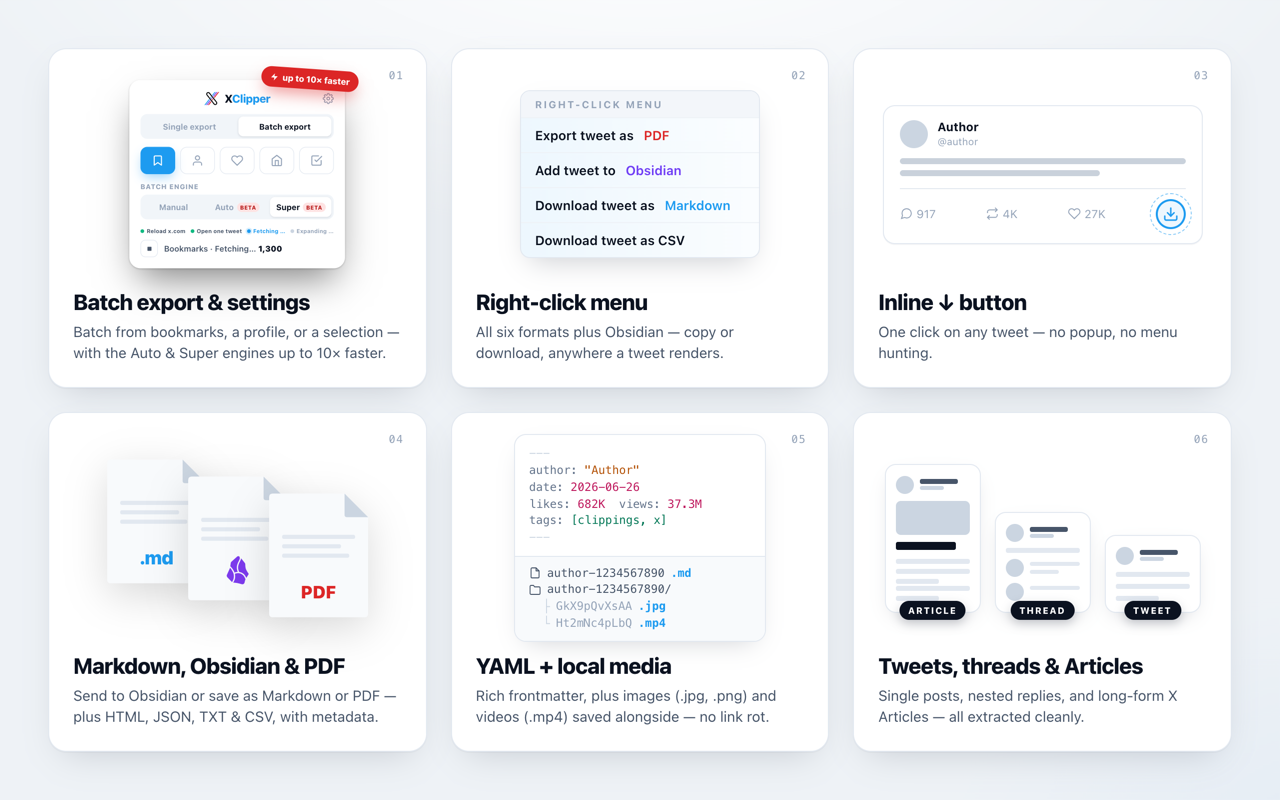
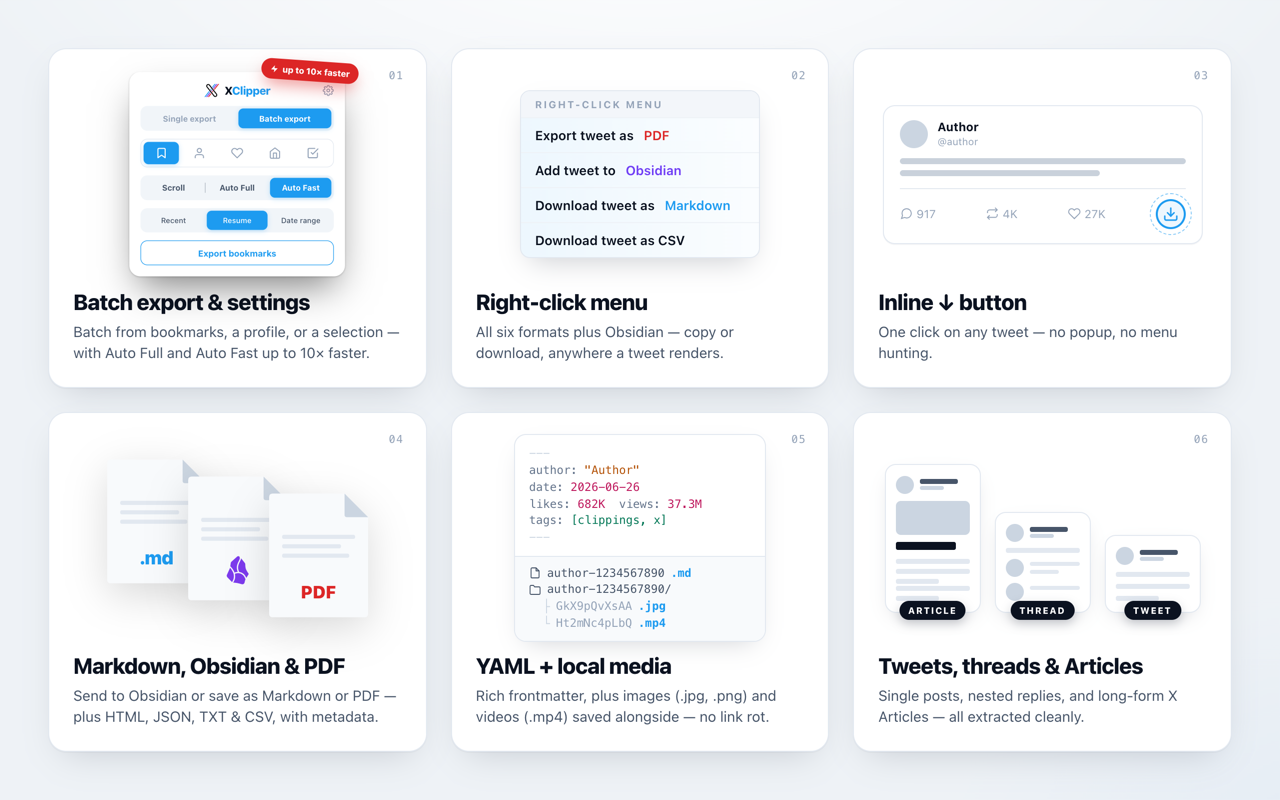
fix(mockups): show the renamed engines and new selectors in the overview card
Match screenshot 07: blue selected pills, one outlined source strip, the
engine and fetch-mode tracks, and the Export bookmarks button. The
progress lights were unreadable at this scale, so they make room for the
new rows.

Changed region(s): [[0.0938, 0.0625, 0.2812, 0.3438], [0.0938, 0.4375, 0.3125, 0.4688]]

diff --git a/store/mockups/01-product-overview.html b/store/mockups/01-product-overview.html
@@ -202,37 +202,30 @@
 
   .mqp-seg{ display: flex; background: #f1f5f9; border-radius: 11px; padding: 4px; gap: 4px; }
   .mqp-seg .opt{ flex: 1; text-align: center; font-size: 13px; font-weight: 700; color: #94a3b8; padding: 8px 0; border-radius: 8px; }
-  .mqp-seg .opt.active{ background: #fff; color: #0b1220; box-shadow: 0 1px 3px rgba(15,23,42,.12); }
+  /* Selected is a blue fill with white text in every selector, as in the popup. */
+  .mqp-seg .opt.active{ background: var(--brand-blue); color: #fff; box-shadow: 0 2px 8px rgba(29,155,240,.25); }
 
-  .mqp-tabs{ display: flex; gap: 8px; }
+  /* Source tabs: one outlined strip with the selected tab as a blue pill inside. */
+  .mqp-tabs{ display: flex; gap: 4px; padding: 4px; border: 1px solid var(--line); border-radius: 11px; }
   .mqp-tab{
-    flex: 1; height: 44px; border: 1px solid var(--line); border-radius: 11px;
+    flex: 1; height: 36px; border-radius: 8px;
     display: flex; align-items: center; justify-content: center; color: #94a3b8;
   }
   .mqp-tab svg{ width: 20px; height: 20px; fill: none; stroke: currentColor; stroke-width: 2; stroke-linecap: round; stroke-linejoin: round; }
-  .mqp-tab.active{ background: var(--brand-blue); border-color: var(--brand-blue); color: #fff; box-shadow: 0 8px 18px -4px rgba(29,155,240,.45); }
+  .mqp-tab.active{ background: var(--brand-blue); color: #fff; box-shadow: 0 2px 8px rgba(29,155,240,.25); }
 
-  .mqp-mode-field{ display: flex; flex-direction: column; gap: 7px; }
-  .mqp-mode-label{ font-size: 11px; font-weight: 800; color: #94a3b8; letter-spacing: .06em; text-transform: uppercase; }
-  .mqp-mode{ display: flex; align-items: center; background: #f1f5f9; border-radius: 11px; padding: 4px; gap: 4px; }
-  .mqp-mode .opt{ flex: 1; display: flex; align-items: center; justify-content: center; gap: 5px; font-size: 13px; font-weight: 700; color: #94a3b8; padding: 8px 0; border-radius: 8px; }
-  .mqp-mode .opt.active{ background: #ffffff; color: #0b1220; box-shadow: 0 1px 3px rgba(15,23,42,.12); }
-  .mqp-mode .beta{ font-size: 9px; font-weight: 800; color: #b91c1c; background: #fee2e2; border-radius: 999px; padding: 2px 5px; letter-spacing: .04em; text-transform: uppercase; }
+  /* Engine + fetch mode: separate gray tracks with a blue pill, like the
+     Single / Batch row. A short divider separates two unselected neighbors. */
+  .mqp-mode{ display: flex; background: #f1f5f9; border-radius: 11px; padding: 4px; gap: 4px; }
+  .mqp-mode .opt{ position: relative; flex: 1; display: flex; align-items: center; justify-content: center; font-size: 13px; font-weight: 700; color: #475569; padding: 8px 0; border-radius: 8px; }
+  .mqp-mode .opt + .opt::before{ content: ''; position: absolute; left: -2.5px; top: 25%; bottom: 25%; width: 1px; background: #475569; opacity: .4; }
+  .mqp-mode .opt.active::before, .mqp-mode .opt.active + .opt::before{ display: none; }
+  .mqp-mode .opt.active{ background: var(--brand-blue); color: #fff; box-shadow: 0 2px 8px rgba(29,155,240,.25); }
+  /* Fetch mode is the secondary choice, lighter than the engine row, as in the popup. */
+  .mqp-mode.fetch .opt{ font-size: 12px; font-weight: 500; }
 
-  .mqp-prog{ display: flex; flex-direction: column; gap: 9px; }
-  .mqp-prow{ display: flex; align-items: center; gap: 10px; }
-  .mqp-ctl{ width: 28px; height: 28px; border-radius: 8px; border: 1px solid var(--line); display: flex; align-items: center; justify-content: center; color: #475569; flex-shrink: 0; }
-  .mqp-ctl svg{ width: 13px; height: 13px; fill: currentColor; }
-  /* One row, like the popup's .fast-steps (space-between, no wrap). */
-  .mqp-steps{ display: flex; align-items: center; justify-content: space-between; gap: 4px; }
-  .mqp-step{ display: inline-flex; align-items: center; gap: 4px; font-size: 9px; font-weight: 700; color: #94a3b8; white-space: nowrap; }
-  .mqp-step::before{ content: ''; width: 6px; height: 6px; border-radius: 50%; background: #cbd5e1; flex-shrink: 0; }
-  .mqp-step.done{ color: #475569; }
-  .mqp-step.done::before{ background: #10b981; }
-  .mqp-step.live{ color: var(--brand-blue); }
-  .mqp-step.live::before{ background: var(--brand-blue); box-shadow: 0 0 0 2.5px rgba(29,155,240,.18); }
-  .mqp-plabel{ font-size: 13px; color: #475569; font-weight: 600; }
-  .mqp-plabel b{ color: #0b1220; }
+  /* Outlined in the brand color, like the popup's Export button. */
+  .mqp-export{ height: 40px; border: 1.5px solid var(--brand-blue); border-radius: 11px; display: flex; align-items: center; justify-content: center; font-size: 14px; font-weight: 700; color: var(--brand-blue); }
 
   .mqp-badge{
     position: absolute; top: -18px; right: -22px;
@@ -383,34 +376,23 @@
                 <div class="mqp-tab" title="Selection"><svg viewBox="0 0 24 24"><polyline points="9 11 12 14 22 4"/><path d="M21 12v7a2 2 0 0 1-2 2H5a2 2 0 0 1-2-2V5a2 2 0 0 1 2-2h11"/></svg></div>
               </div>
 
-              <div class="mqp-mode-field">
-                <div class="mqp-mode-label">Batch engine</div>
-                <div class="mqp-mode">
-                  <div class="opt">Manual</div>
-                  <div class="opt">Auto<span class="beta">Beta</span></div>
-                  <div class="opt active">Super<span class="beta">Beta</span></div>
-                </div>
+              <div class="mqp-mode">
+                <div class="opt">Scroll</div>
+                <div class="opt">Auto Full</div>
+                <div class="opt active">Auto Fast</div>
+              </div>
+              <div class="mqp-mode fetch">
+                <div class="opt">Recent</div>
+                <div class="opt active">Resume</div>
+                <div class="opt">Date range</div>
               </div>
 
-              <!-- Super running: Stop but no Pause, and no determinate bar -
-                   collection is open-ended, so the step lights and live count carry it. -->
-              <div class="mqp-prog">
-                <div class="mqp-steps">
-                  <span class="mqp-step done">Reload x.com</span>
-                  <span class="mqp-step done">Open one tweet</span>
-                  <span class="mqp-step live">Fetching &hellip;</span>
-                  <span class="mqp-step">Expanding &hellip;</span>
-                </div>
-                <div class="mqp-prow">
-                  <div class="mqp-ctl"><svg viewBox="0 0 24 24"><rect x="6" y="6" width="12" height="12" rx="1.5"/></svg></div>
-                  <div class="mqp-plabel">Bookmarks · Fetching&hellip; <b>1,300</b></div>
-                </div>
-              </div>
+              <div class="mqp-export">Export bookmarks</div>
             </div>
           </div>
         </div>
         <h3>Batch export &amp; settings</h3>
-        <p>Batch from bookmarks, a profile, or a selection — with the Auto &amp; Super engines up to 10× faster.</p>
+        <p>Batch from bookmarks, a profile, or a selection — with Auto Full and Auto Fast up to 10× faster.</p>
       </div>
 
       <!-- ───────── Card 2 — Right-click menu ───────── -->
